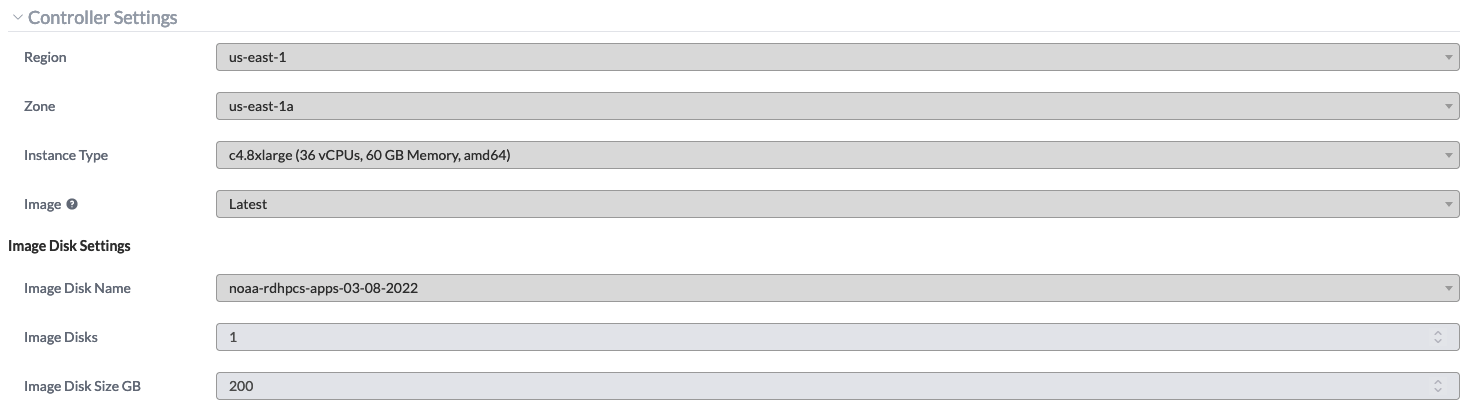
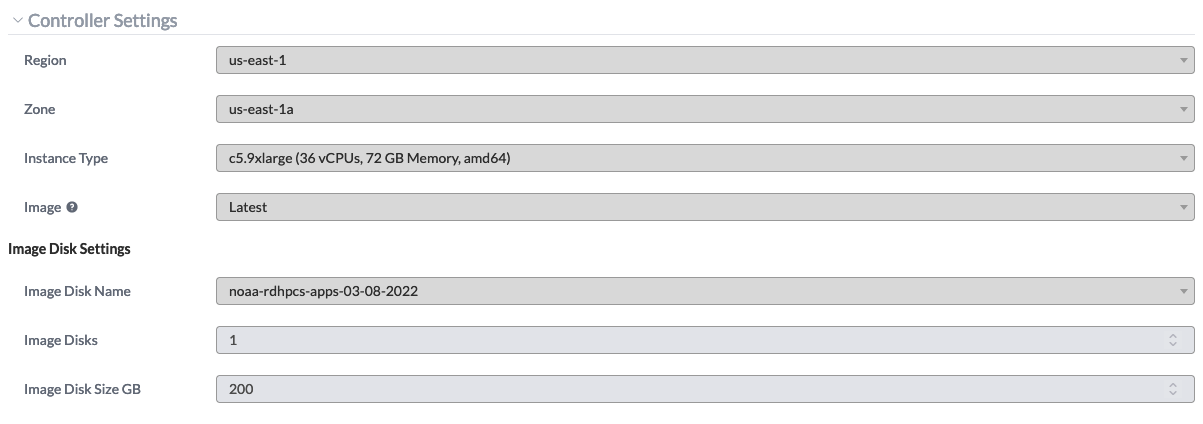
Image updates, spell check, and text updates.

diff --git a/docs/source/noaa_csp.rst b/docs/source/noaa_csp.rst
@@ -184,14 +184,14 @@ the global-workflow.
 
 The software stack supporting the ``develop`` branch of the
 global-workflow is provided for the user and is located beneath
-``/contrib/workflow/spack-stack``. The modules required for the
+``/contrib/global-workflow/spack-stack``. The modules required for the
 global-workflow execution may be loaded as follows.
 
 .. code-block:: bash
 
    user@host:$ module unuse /opt/cray/craype/default/modulefiles
    user@host:$ module unuse /opt/cray/modulefiles
-   user@host:$ module use –a /contrib/global-workflow/spack-stack/miniconda/modulefiles/miniconda
+   user@host:$ module use /contrib/global-workflow/spack-stack/miniconda/modulefiles/miniconda
    user@host:$ module load py39_4.12.0
    user@host:$ module load rocoto/1.3.3
 
@@ -199,12 +199,3 @@ The execution of the global-workflow should now follow the same steps
 as those for the RDHPCS on-premise hosts.
 
 
-### TODO: Update all images such that the margins are identical.
-
-### TODO: Link table.
-
-### TODO: Update _static/noaacsp_instance_1.png such that black boxes
-are aligned.
-
-### TODO: Update image `_static/noaacsp_cluster_4.png` such that
-correct instance is used.
